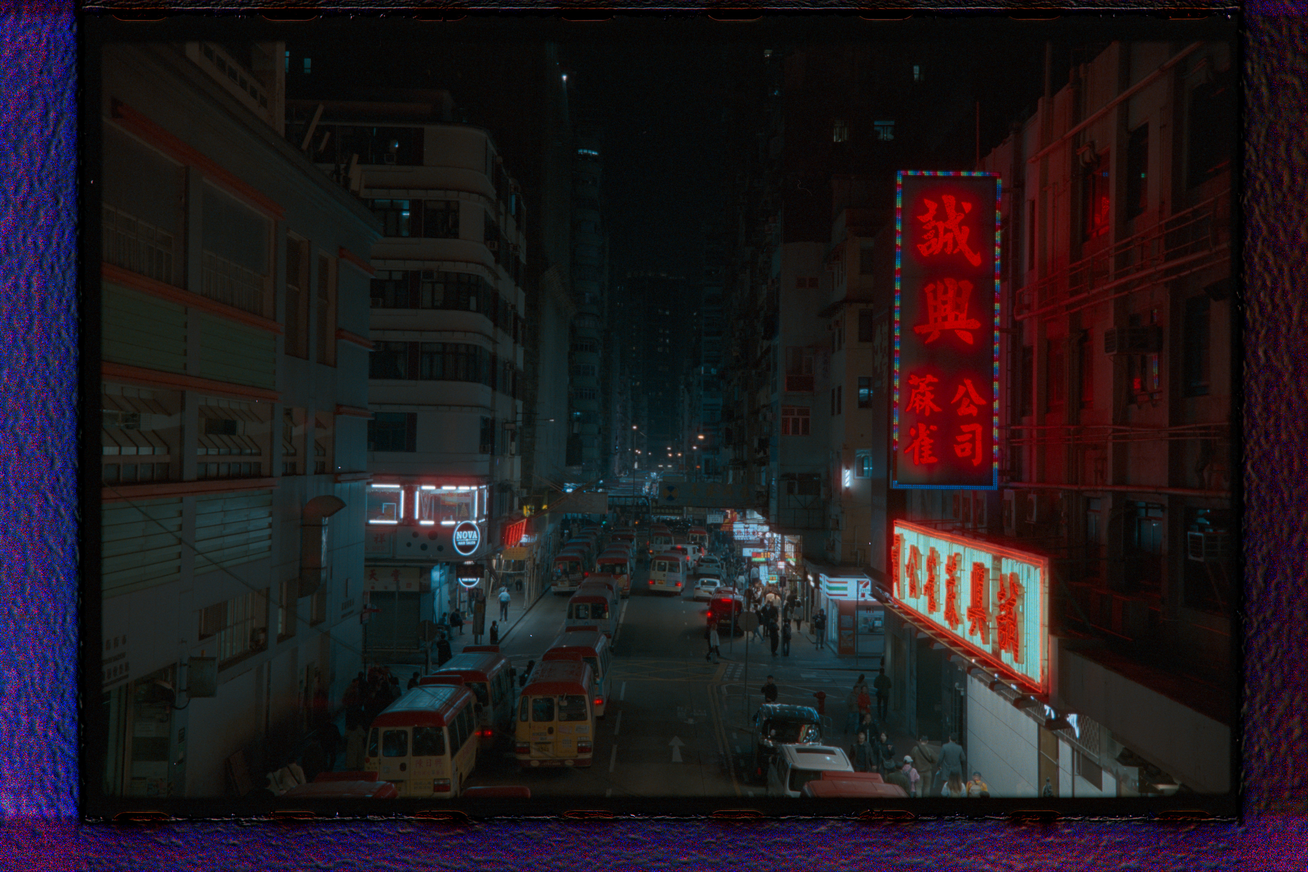
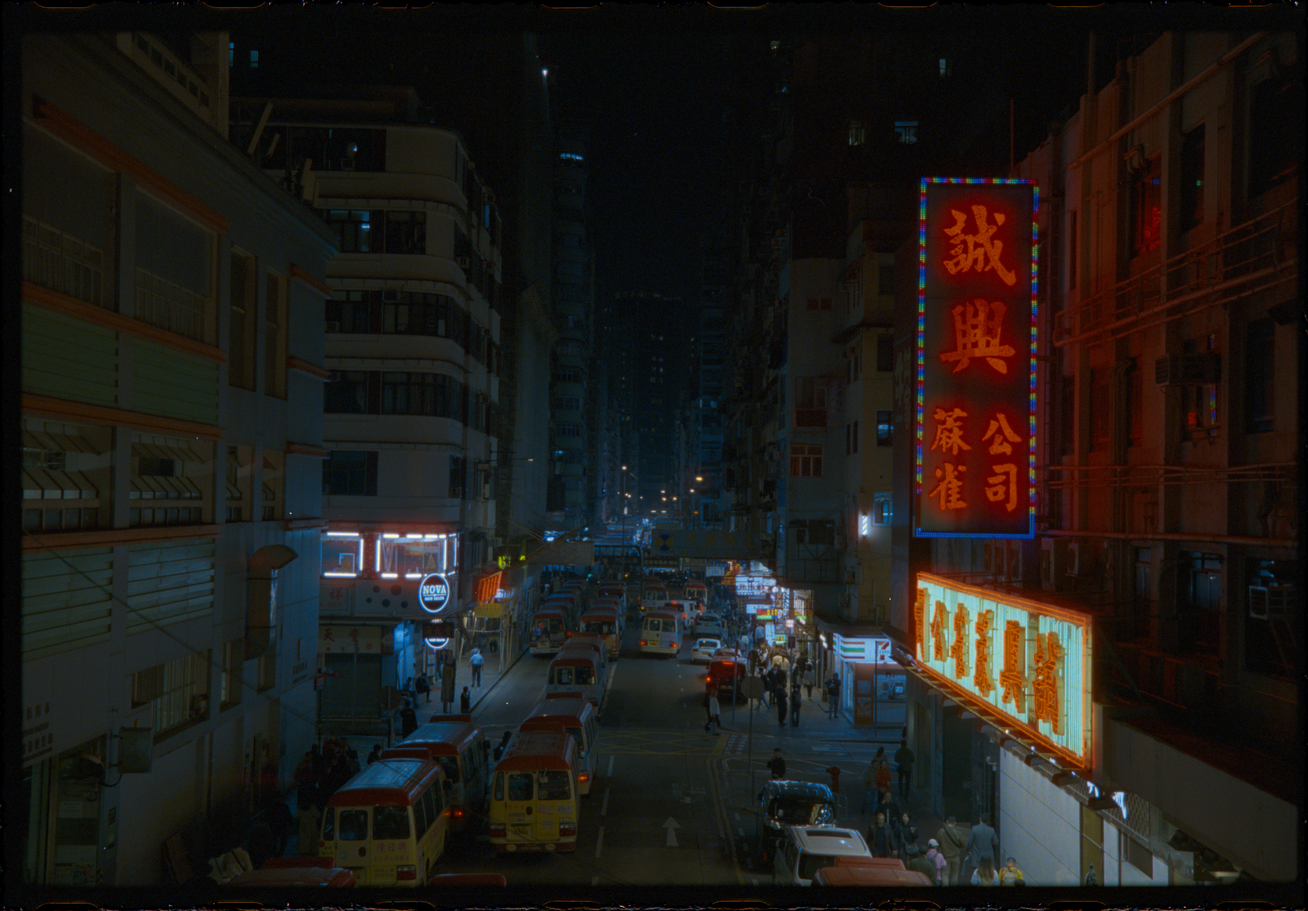
Added lots of features
B&W conversion
Half size import
Autocrop
Output resizing
Import colorspace transform
Proper argument parsing

diff --git a/invert.py b/invert.py
@@ -2,24 +2,58 @@ import rawpy
 import numpy as np
 from pathlib import Path
 import tifffile
-import sys
+import cv2
+import argparse
 
 np.seterr(divide='ignore', invalid='ignore') #suppress nans and infs warnings
 
-rawextension = sys.argv[1] #search for these RAW extensions
-gamma = float(sys.argv[2]) #set output gamma
+#parse CLI inputs
+parser = argparse.ArgumentParser(description="simple-inversion")
 
-icc_profile_path = "ProPhotoLinear.icm" #use attached linear profile
-icc_file = open(icc_profile_path, "rb")
-icc_profile = icc_file.read()
+parser.add_argument('--rawext', type=str,default='CR3',help = 'RAW file extension, default CR3')
+parser.add_argument('--gamma', type=float,default=1.0, help='Output base curve gamma')
+parser.add_argument('--halfsize', action='store_true', help = 'Half-size RAW import for speed')
+parser.add_argument('--processraw', action='store_true', help= 'Use RAW RGB rather than ProPhoto')
+parser.add_argument('--processbw', action='store_true', help= 'Process black and white film')
+parser.add_argument('--noautocrop', action='store_true', help='Disable automatic cropping to flat-field')
+parser.add_argument('--mp',type=float,default=0.0,help='Megapixels to downscale to, default no scaling')
+
+args = parser.parse_args()
+rawextension = args.rawext
+gamma = args.gamma
+halfsizeimport = args.halfsize
+processraw = args.processraw
+processbw = args.processbw
+noautocrop = args.noautocrop
+megapixels = args.mp
+
+#Load linear profiles for tiff tag
+coloriccfile = open("ProPhotoLinear.icm" , "rb")
+coloricc = coloriccfile.read()
+
+grayiccfile = open("GrayLinear.icc" , "rb")
+grayicc = grayiccfile.read()
+
+#Hardcoded color conversion matrices
+bradford_d65_to_d50 = np.array([[1.0478112,  0.0228866, -0.0501270],
+                                [0.0295424,  0.9904844, -0.0170491],
+                                [-0.0092345,  0.0150436,  0.7521316]])
+
+xyztoprophoto = np.array([[ 1.3459433, -0.2556075, -0.0511118],
+                      [-0.5445989,  1.5081673,  0.0205351],
+                      [0.0000000,  0.0000000,  1.2118128]])
+
 
 importparams = rawpy.Params(output_color=rawpy.ColorSpace.raw,
-                            output_bps=16,
                             gamma=(1,1),
+                            output_bps=16,
                             no_auto_scale=True,
                             no_auto_bright=True,
-                            half_size=False,
-                            user_wb=[1.0, 1.0, 1.0, 1.0])
+                            half_size=halfsizeimport
+                            )
+
+#-----------------------------------------------------------------------------
+#Process roll
 
 Path("Inverted").mkdir(parents=True, exist_ok=True)
 
@@ -30,12 +64,42 @@ blackwhite_path = str(raw_files[1])
 
 #read bw and flat frames
 print('Processing flat-field')
-flat = rawpy.imread(flatfield_path)
-flat = flat.postprocess(importparams)
+raw = rawpy.imread(flatfield_path)
+flat = raw.postprocess(importparams)
 
 print('Processing half-exposed leader')
-bw = rawpy.imread(blackwhite_path)
-bw = bw.postprocess(importparams)
+raw = rawpy.imread(blackwhite_path)
+bw = raw.postprocess(importparams)
+
+if not noautocrop: #finds bounding box from flatfield and crops
+    cropmask = np.sum(flat,axis=(2))
+    cropmask = cropmask>np.max(cropmask)/2 #selects one stop from max observed
+    
+    #finds box
+    cropmaskx = np.any(cropmask,axis=(0))
+    cropmasky = np.any(cropmask,axis=(1))
+    cropmaskxmin = np.argmax(cropmaskx)
+    cropmaskxmax = len(cropmaskx)-1-np.argmax(cropmaskx[::-1])
+    cropmaskymin = np.argmax(cropmasky)
+    cropmaskymax = len(cropmasky)-1-np.argmax(cropmasky[::-1])
+    
+    #crops flat and black
+    flat = flat[cropmaskymin:cropmaskymax+1,cropmaskxmin:cropmaskxmax+1,]
+    bw = bw[cropmaskymin:cropmaskymax+1,cropmaskxmin:cropmaskxmax+1,]
+
+#calculate color conversion matrices
+if not processbw: #color processing
+    if not processraw: #prophoto colorspace
+            xyztocamrgb = raw.rgb_xyz_matrix[0:3,0:3]
+            conversionmatrix = xyztoprophoto  @ bradford_d65_to_d50 @  np.linalg.inv(xyztocamrgb)
+    else:
+            conversionmatrix = np.eye(3) #identity matrix
+else:
+    conversionmatrix = np.array([1.0,1.0,1.0]) #single channel
+
+#convert raw to inversion colorspace
+flat = flat @ conversionmatrix.T
+bw = bw @ conversionmatrix.T
 
 #define mask for black and white points
 dimensions = np.shape(bw)
@@ -46,36 +110,73 @@ base_xmax = round(5*dimensions[1]/6)
 ymin = round(dimensions[0]/3)
 ymax = round(2*dimensions[0]/3)
 
+#if scaling enabled, calculate final image dimensions
+if not megapixels == 0 : #do scaling
+    scalefactor = np.sqrt(megapixels*1e6/dimensions[0]/dimensions[1])
+    if scalefactor>=1:
+        megapixels = 0 #do not enlarge image
+    else:
+        targetsize = (round(dimensions[1]*scalefactor),
+                      round(dimensions[0]*scalefactor))
+
 #calculate density of base and exposed leader
-exposedintensity = np.mean(bw[ymin:ymax,exposed_xmin:exposed_xmax,:],axis=(0,1))
-baseintensity = np.mean(bw[ymin:ymax,base_xmin:base_xmax,:],axis=(0,1))
-exposedi0 = np.mean(flat[ymin:ymax,exposed_xmin:exposed_xmax,:],axis=(0,1))
-basei0 = np.mean(flat[ymin:ymax,base_xmin:base_xmax,:],axis=(0,1))
-print('Base density = ' , end="")
+if bw.ndim == 3: #numpy complains about hanging dimension
+    exposedintensity = np.mean(bw[ymin:ymax,exposed_xmin:exposed_xmax,:],axis=(0,1))
+    baseintensity = np.mean(bw[ymin:ymax,base_xmin:base_xmax,:],axis=(0,1))
+    exposedi0 = np.mean(flat[ymin:ymax,exposed_xmin:exposed_xmax,:],axis=(0,1))
+    basei0 = np.mean(flat[ymin:ymax,base_xmin:base_xmax,:],axis=(0,1))
+else:
+    exposedintensity = np.mean(bw[ymin:ymax,exposed_xmin:exposed_xmax],axis=(0,1))
+    baseintensity = np.mean(bw[ymin:ymax,base_xmin:base_xmax],axis=(0,1))
+    exposedi0 = np.mean(flat[ymin:ymax,exposed_xmin:exposed_xmax],axis=(0,1))
+    basei0 = np.mean(flat[ymin:ymax,base_xmin:base_xmax],axis=(0,1))
+
 basedensity = np.log10(basei0/baseintensity)
+exposeddensity = np.log10(exposedi0/exposedintensity)
+
+print('Base density = ' , end="")
 print(basedensity)
 print('Exposed density = ' , end="")
-exposeddensity = np.log10(exposedi0/exposedintensity)
 print(exposeddensity)
-
 
 #process scans
 for file in raw_files[2:]:
     print('Inverting ' + file.name)
-    scan = rawpy.imread(str(file))
-    scan = scan.postprocess(importparams)
+    raw = rawpy.imread(str(file))
+    scan = raw.postprocess(importparams)
+    if not noautocrop:
+        
+        scan = scan[cropmaskymin:cropmaskymax+1,cropmaskxmin:cropmaskxmax+1,]
+
+    scan = scan @ conversionmatrix.T
     
     scan = np.log10(flat/scan)#calculate density
     scan = (scan-basedensity)/(exposeddensity-basedensity)#scale density to 0-1
 
+    if not megapixels == 0 : #do scaling
+        scan = cv2.resize(scan, targetsize, interpolation=cv2.INTER_AREA)
+
+    
     scan = (np.power(10,scan*gamma)-1)/(np.power(10,gamma)-1) #base curve
     
     scan[np.isnan(scan)]=0 #clean for export
     scan = np.clip(scan,0,1)
     
-    tifffile.imwrite(
-                "Inverted"+str(Path("/"))+file.stem+".tiff",
+    outputfilename = "Inverted"+str(Path("/"))+file.stem+".tiff"
+    if processbw:
+        tifffile.imwrite(
+                outputfilename,
                 (scan * 65535).astype(np.uint16),
-                photometric='rgb',
-                extratags=[(34675, 'B', len(icc_profile), icc_profile, True)]
-            )
+                photometric="minisblack",
+                extratags=[(34675, 'B', len(grayicc), grayicc, True)])
+    else:
+        tifffile.imwrite(
+                outputfilename,
+                (scan * 65535).astype(np.uint16),
+                photometric="rgb",
+                extratags=[(34675, 'B', len(coloricc), coloricc, True)])
+        
+
+
+        
+    
